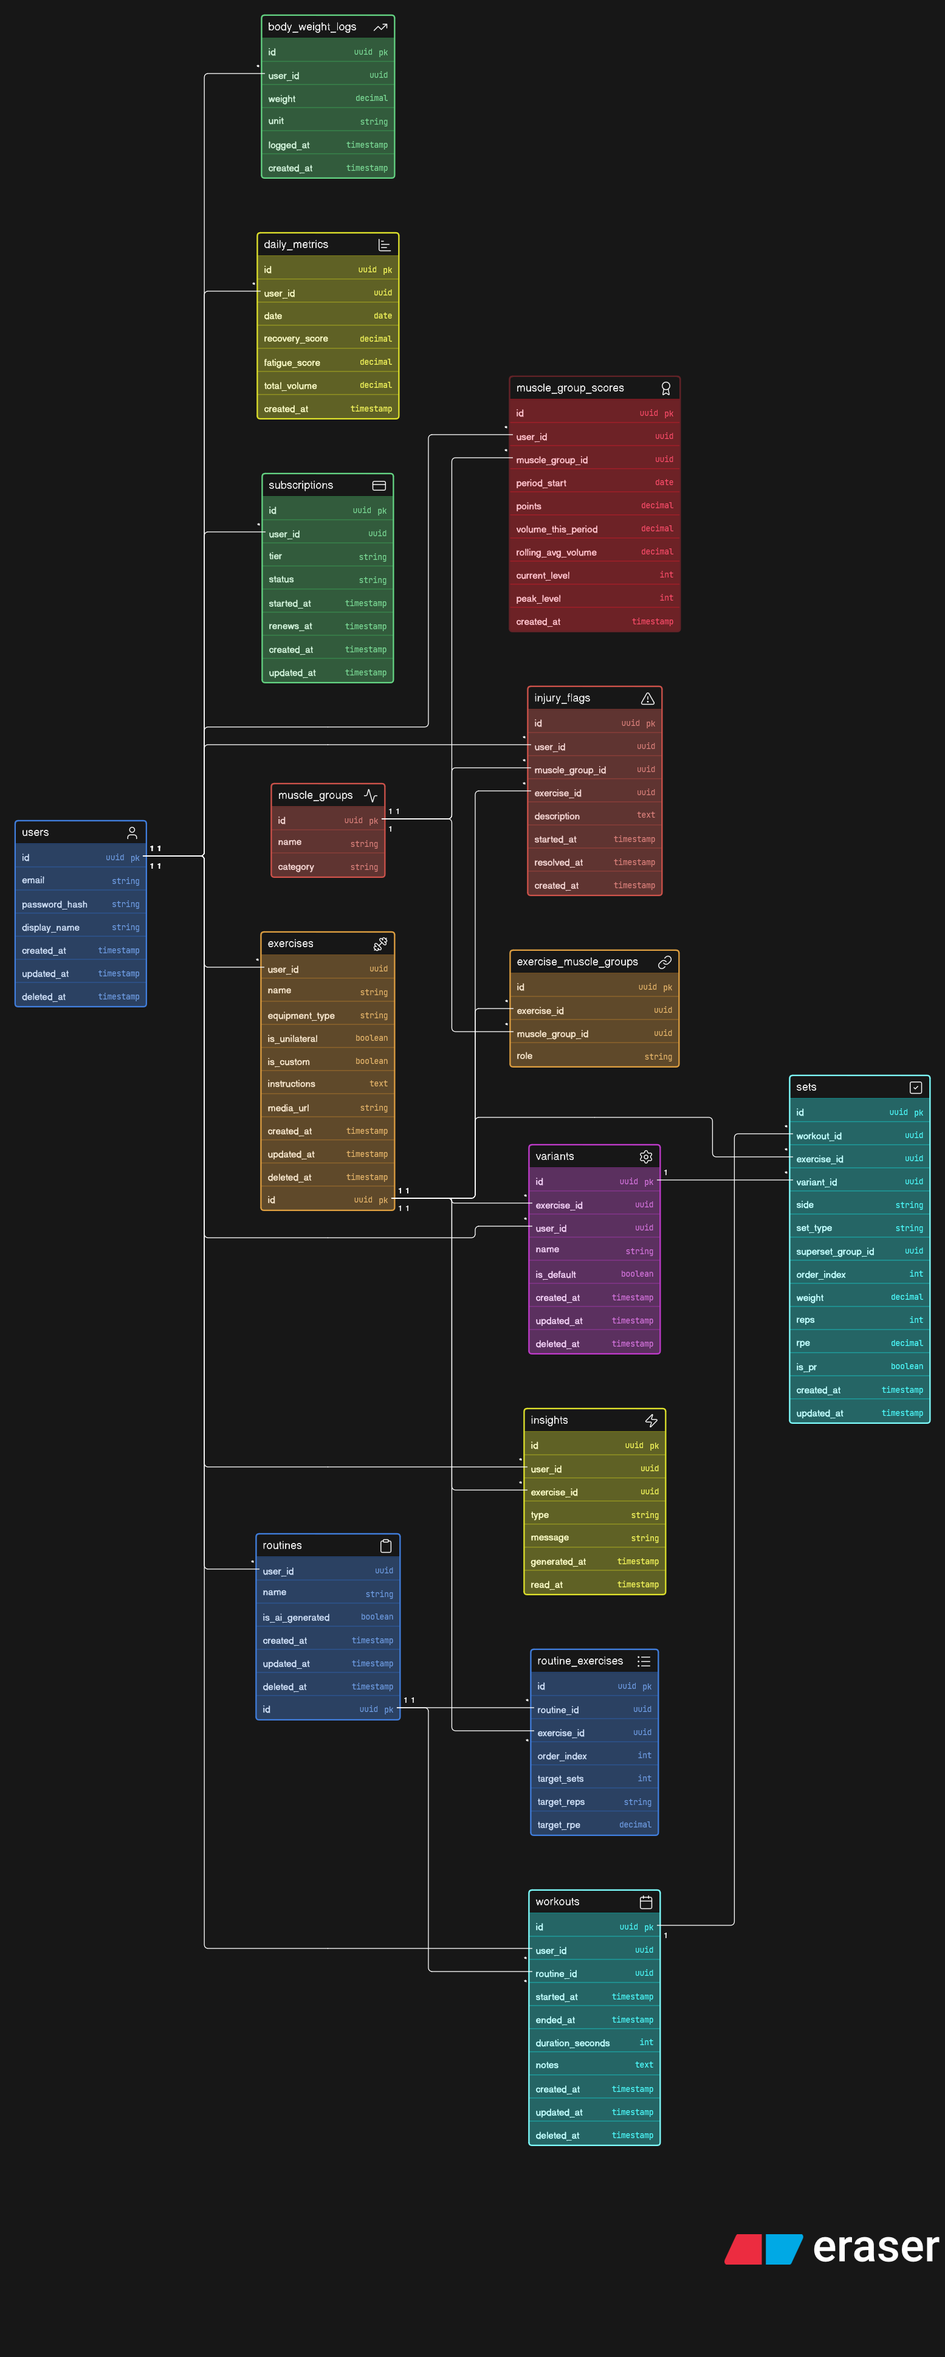
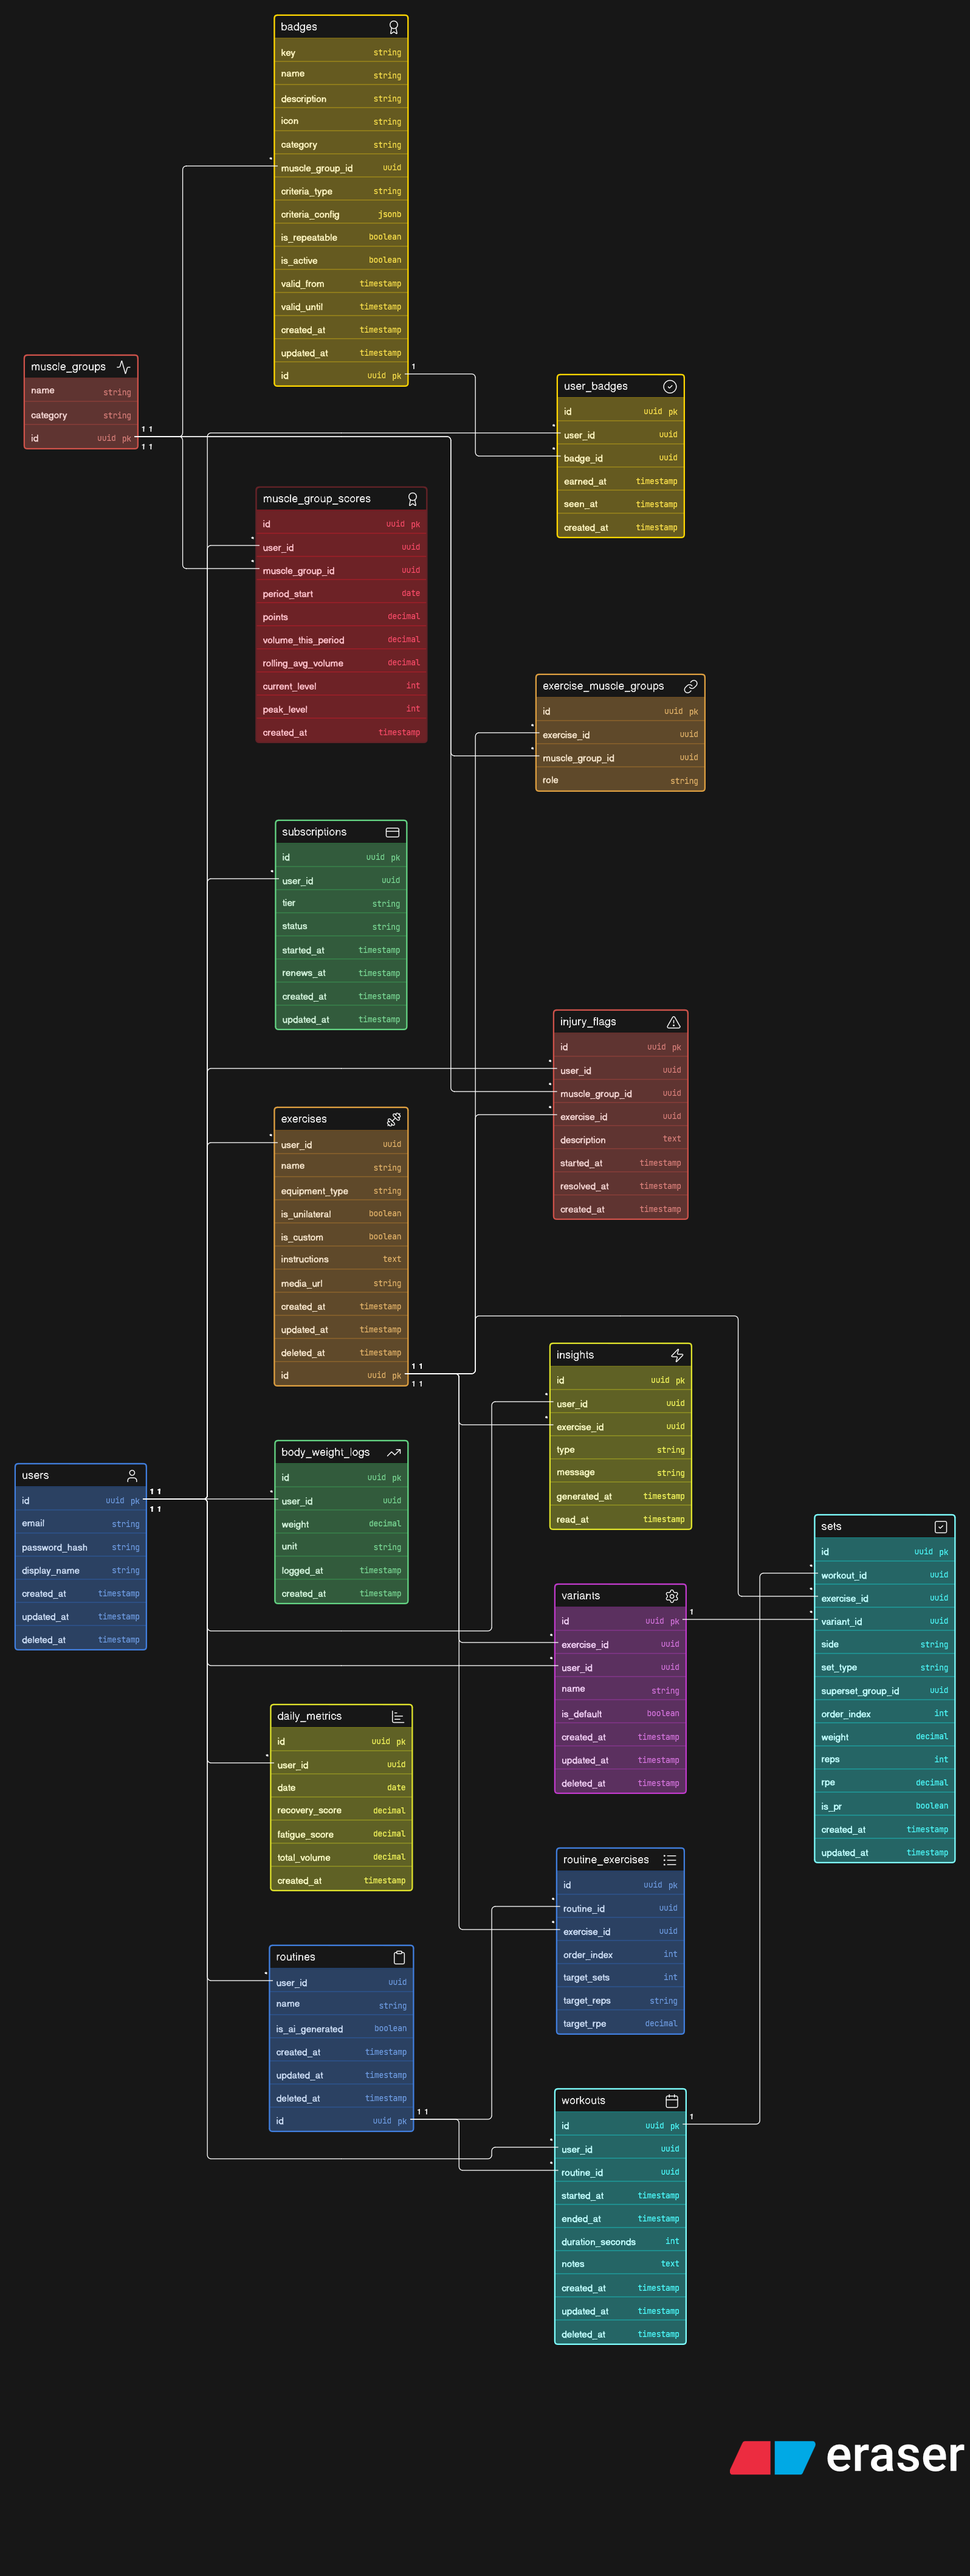
Add to erd

diff --git a/docs/DEVLOG.md b/docs/DEVLOG.md
@@ -39,7 +39,7 @@ I am going to be referencing AI, spotify's plausible database generated database
 
 Ok I procrastinated a lot lol I am going to move on to some other projects today. I can come back here later, but at least I have those basics set up.
 
-### 2026-07-27
+### 2026-07-28
 
 Most important for today, I want to consider what features will go into my app. What makes my app stand out against other popular apps. To do that, I will just combine the best of other apps and also see common complaints. This will just be me throwing stuff I see in bullet form and I can organize later. Just note the important ideas are there.
 
@@ -68,3 +68,39 @@ Ok I think thats pretty much the big parts of it. I'm going to AI an easier to r
 Based on these features, I'm going to have AI spit out a working database to fit all these based on best practices. I will have to pick at it a little to make sure it fits all my needs but at least the most useful tables and fields will be there. I will save a screenshot and make an md file for how the database works for my features. In the future, if something doesn't work how I want I can just edit those fields. I think after today I can start coding a little bit. 
 
 Nice I have a saved image of [ERD.png](./ERD.png) and I have [SCHEMA.md](./SCHEMA.md) to explain what each table does and can do. I wanted to export my ERD as a draw.io but eraser made it so when i export, it doesnt save the tables, so I dont know what that is about. If I want to look at it, I guess I can always just look at eraser anyway. I'm going to add the coded up schema as a txt file ([ERD.txt](./ERD.txt)) so I can copy and paste if I made a change that broke something. Anytway I think im good to push these changes and work on coding up these tables with `django` tomorrow. 
+
+### 2026-07-29
+I'm going to be learning a bit of stuff behind `django` first so I know where I am jumping into. 
+
+It would seem to create feature I need to make a command like `python manage.py startapp users` to add the feature folder into my root directory. I then have to register the app in my `config/settings.py` within "INSTALLED APPS" to make my django project recognize the app. The users will save users data. I'm going to seperate users and authentication so I'm going to make an authentication app too for logins, registering, and other stuff. I'm going to focus on authentication for this week. I note that `django` already provides `Users` app and `Authentication`, but I want control I should be building these apps on top of the preexisting ones because these have been  tested for years for real security. I just want control and maybe try slight modifications.
+
+Here are what the files for each app does:
+- migrations/ = Stores database schema changes. Every time you modify a model and run makemigrations, Django creates a migration file here that describes how to update the database.
+- migrations/__init__.py = Marks the migrations folder as a Python package so Django can discover and execute migrations.
+- admin.py = Registers models with Django's admin site and customizes how they appear to administrators.
+- apps.py = Defines configuration for the app, such as its name and any startup behavior.
+- models.py = Defines your database models (tables) and the relationships between them.
+- tests.py = Contains automated tests that verify your app behaves correctly.
+- views.py = Contains the code that handles incoming requests, performs business logic (or calls services), and returns a response.
+
+Apparently later it is good to optionally add these files, so with this information what you will:
+- serializers.py = Converts models to and from JSON (commonly used with Django REST Framework).
+- urls.py = Defines the URL routes for this app.
+- services.py = Contains business logic that doesn't belong in models or views (for example, creating a workout plan or awarding XP).
+- permissions.py = Defines who is allowed to access specific endpoints.
+signals.py = Runs code automatically when certain events occur (for example, creating a profile whenever a new user is created).
+- validators.py = Stores reusable validation logic for fields or input data.
+- constants.py = Stores constant values used throughout the app.
+- exceptions.py = Defines custom exception classes for your application.
+- tasks.py = Contains background jobs (commonly used with task queues like Celery).
+- utils.py = Stores small helper functions that don't fit elsewhere.
+
+I note that each app has its own test file so I can remove the tests folder at the root directory.
+
+I want to make a connection with supabase so I'm going to do that. Going to add an .env file and `uv add django-environ` which is the popular way to react .env files in django. Then configure the `settings.py` to read these variables. 
+
+Next I start a new project in `Supabase`. I am only using this for storage so I turn off all security settings since my `django` will ahndle everyting. The architecture I am going for is that frontend connects to my `django` and only `django` connects to supabase for storage of data.
+
+Ok I am finally connected. Just had to configure my .envs for db and then used them to connect in  `settings.json` Databases while also changing the engine from sqlite to postgresql. I had to change supabase connection method to pooler which is IPv4 available. Seems my machine is not iPv6 connection which is what the direct connection protocol needs. I tested connection worked with `python manage.py migrate`. I'm going to just push all my changes. 
+
+I'm going to make another change. I want to add badge rewards to the ERD. The idea is that the levels will show the person's experience while the badges will tell a story of the person's progression. I think leveling up alone won't mean much and won't have them trying to reach anything and I don't really plan on giving rewards so this should be fine. I'm going to push these changes as well. 

diff --git a/docs/FEATURES.md b/docs/FEATURES.md
@@ -84,12 +84,23 @@
 
 ---
 
-## 6. Gamification (needs more design work)
+## 6. Gamification
 
-- Muscle-group progress bars.
-- Points/progress should be based on **effort/consistency relative to the user's own history**, not raw weight — otherwise variant differences (light vs. heavy machine) unfairly skew scoring.
-- Avoid punishing gaps: bars should **decay gradually** toward neutral rather than reset to zero after time off (injury, busy week, etc.).
-- Streaks should probably be measured in **weeks trained**, not consecutive days — more forgiving, matches how lifters actually think.
+**Per-muscle-group leveling**
+- Every muscle group has its own level/XP track (chest, quads, lats, etc.), not one global level.
+- Points/progress based on **effort/consistency relative to the user's own history**, not raw weight — otherwise variant differences (light vs. heavy machine) unfairly skew scoring.
+- Avoid punishing gaps: levels should **decay gradually** toward neutral rather than reset to zero after time off (injury, busy week, etc.).
+- Track both a `current_level` (can drop after sustained inactivity) and a `peak_level` (all-time best, never decreases) — inactivity dents your current standing without erasing what you've already proven.
+- Streaks/consistency should probably be measured in **weeks trained**, not consecutive days — more forgiving, matches how lifters actually think.
+
+**Badges — flat, binary achievements (GitHub-style)**
+- Deliberately **separate from leveling**. Levels are the "real" progression system; badges are lightweight, surprising little rewards layered on top — not a second grind system.
+- **Binary, no progress bars**: a badge is either earned or not. No "62/100 days" tracker UI to build or maintain — this keeps them feeling like fun surprises rather than another checklist to grind.
+- Can be scoped **per muscle group** (e.g. "Reach Level 10 in Chest") or **overall/account-wide** (e.g. "7 days of working out," regardless of which muscle groups were trained).
+- **No tier system** (bronze/silver/gold). If an achievement should escalate, it's a separate badge per threshold (e.g. distinct "7-Day Streak," "30-Day Streak," "90-Day Streak" badges) rather than one badge with tiers — keeps each badge a distinct, nameable moment rather than a ladder.
+- Some badges are **time-bound/seasonal** (e.g. "100 Days in 2026") and won't recur automatically — a fresh badge gets defined for the next year/period if wanted, rather than building generic repeat logic for every badge type.
+- Flexible, rule-based criteria (streaks, cumulative counts, thresholds, level milestones) so new badges can be added without schema changes — evaluated against existing workout/set/level data rather than maintaining a separate running tally.
+- "New badge unlocked" notification moment matters — a small deal is made of it, similar to how GitHub surfaces earned badges.
 
 ---
 
@@ -107,6 +118,8 @@
 - Cold-start problem: what does the app recommend before any workout history exists? (Needs a short onboarding/self-reported baseline flow.)
 - How aggressive should the "different machine?" auto-detect prompt be before it gets annoying.
 - Whether drop-set weight tracking should be revisited later for more detail.
+- Initial badge set / launch list — which achievements ship in MVP vs. get added later.
+- Whether any badges should be repeatable (e.g. recurring monthly badges) or all one-off, given the "flat, no-tier" direction.
 
 ---
 
@@ -116,6 +129,8 @@
 - Social features (feed, following, friend comparisons)
 - Tri-sets / complex circuits beyond supersets
 - Real-time video form analysis (deferred to v2+)
+- Badge tier system (bronze/silver/gold) — escalating achievements are handled as separate distinct badges instead
+- Badge progress bars — badges are binary earned/not-earned, no partial-progress display
 
 ---
 
@@ -123,6 +138,6 @@
 
 **MVP:** Polished UI, fast logging, exercise library + variants (basic), progress charts, generous free tier, auto-progression, AI coach text insights, core analytics, CSV export, offline-first sync.
 
-**V2:** Recovery/fatigue scoring refinements, desktop app, warm-up/plate calculators, exercise substitution, gamification, AI program generator.
+**V2:** Recovery/fatigue scoring refinements, desktop app, warm-up/plate calculators, exercise substitution, gamification (per-muscle-group leveling + badges), AI program generator.
 
 **V3 / Stretch:** Video form analysis, wearable integration, social features.
